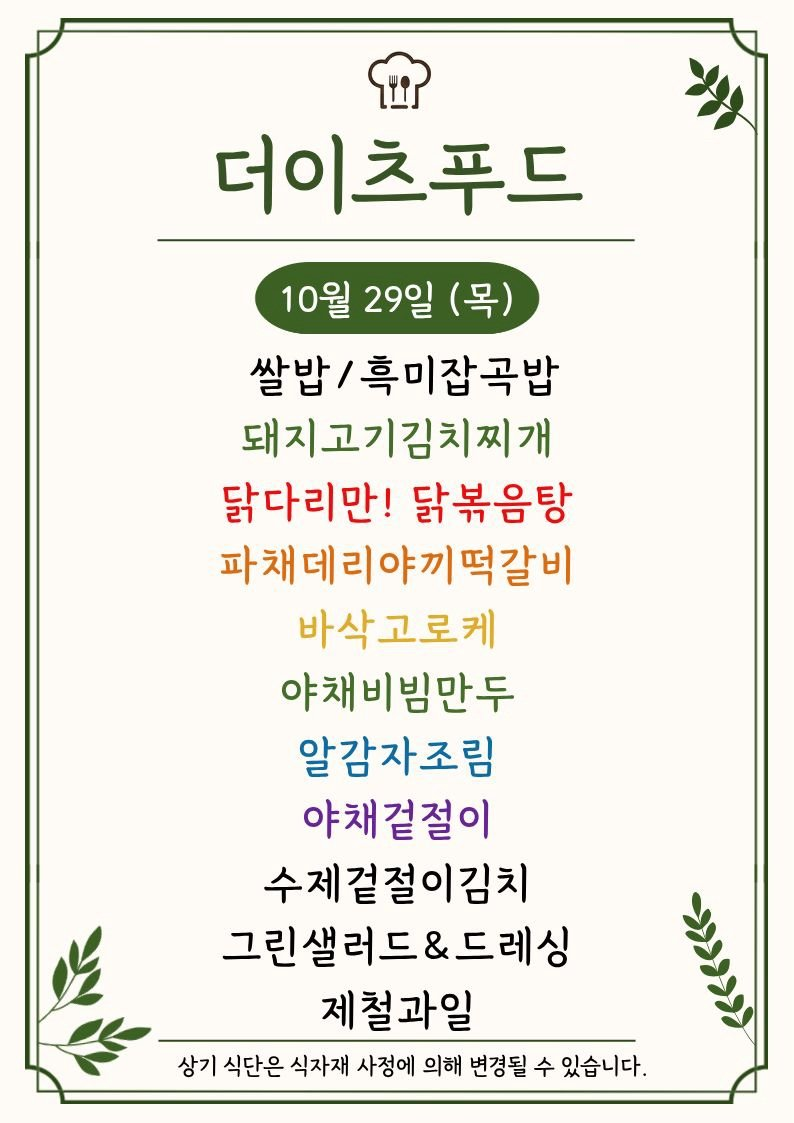
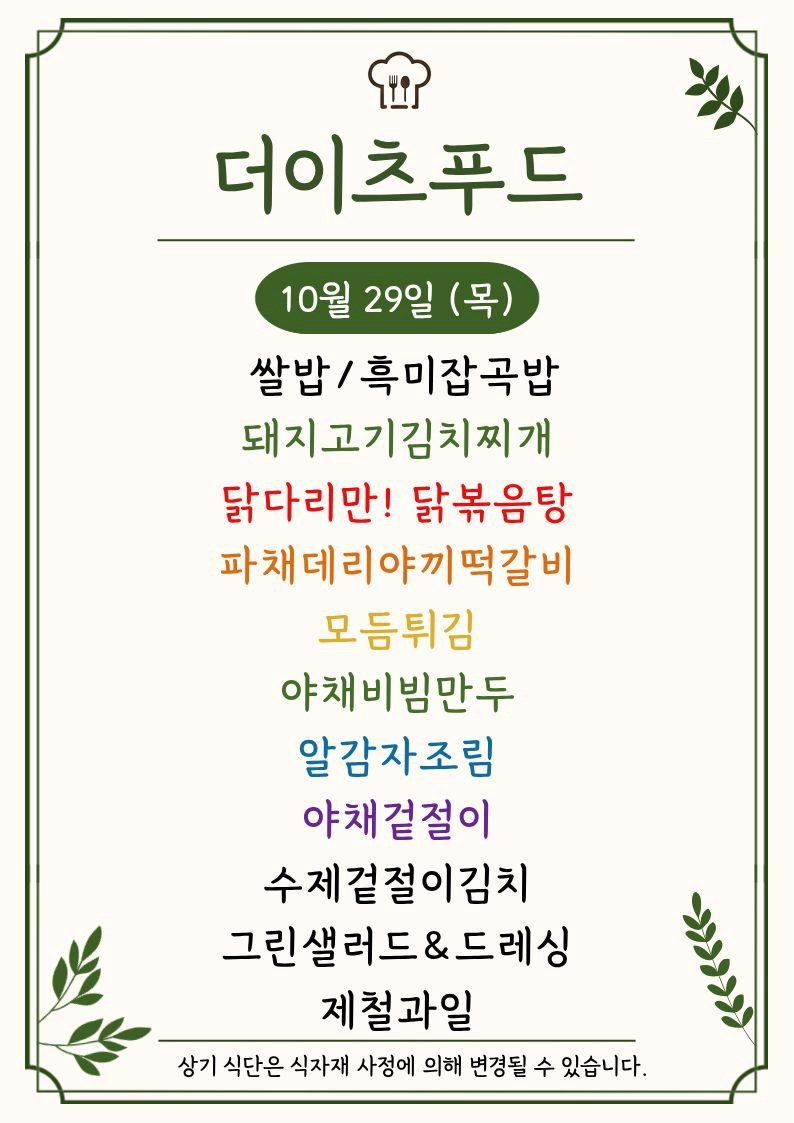
Update menu board assets

Changed region(s): [[0.3627, 0.5298, 0.6348, 0.5922]]

diff --git a/guro-menu/index.html b/guro-menu/index.html
@@ -32,7 +32,7 @@
   </header>
   <section class="meta">
     <div><small>기준 날짜</small><strong>2026년 10월 29일 목요일</strong></div>
-    <div><small>최종 갱신</small><strong>2026-10-29 10:48:10</strong></div>
+    <div><small>최종 갱신</small><strong>2026-10-29 11:03:47</strong></div>
     <div><small>등록 식당</small><strong>5개</strong></div>
   </section>
   <div class="notice">공개 카카오 채널의 메뉴 이미지를 자동 수집하고 OCR로 정리합니다. 텍스트에 오타가 있을 수 있으니 식단 이미지를 함께 확인해 주세요.</div>
@@ -76,7 +76,7 @@
         </div>
         <img class="menu-image" src="./images/the-eats-food.png" alt="더이츠푸드 식단 이미지" loading="lazy">
         
-        <ul><li>더이츠푸느</li><li>쌀밥/흑미잡곡밥</li><li>돼지고기김치찌개</li><li>닭다리만! 닭볶음탕</li><li>파채데리야끼떡갈비</li><li>야채비빔만두</li><li>알감자조림</li><li>야채겉절이</li><li>수제겉절이김치 y</li><li>그린샐러드&amp;드레싱 %</li><li>제철과일 %</li></ul>
+        <ul><li>쌀밥/흑미잡곡밥</li><li>돼지고기김치찌개</li><li>닭다리만! 닭볶음탕</li><li>파채데리야끼떡갈비</li><li>모듬튀김</li><li>야채비빔만두</li><li>알감자조림</li><li>야채겉절이</li><li>수제겉절이김치 0</li><li>그린샐러드&amp;드레싱 %</li><li>제철과일 0</li></ul>
       </article>
 
       <article class="restaurant-card">

diff --git a/menu-today/index.html b/menu-today/index.html
@@ -209,7 +209,7 @@
 
     <section class="meta-bar">
       <div class="meta-card"><div class="meta-label">기준 날짜</div><div class="meta-value">2026년 10월 29일 목요일</div></div>
-      <div class="meta-card"><div class="meta-label">최종 가져온 시간</div><div class="meta-value">2026-10-29 10:47:57</div></div>
+      <div class="meta-card"><div class="meta-label">최종 가져온 시간</div><div class="meta-value">2026-10-29 11:03:33</div></div>
       <div class="meta-card"><div class="meta-label">확인 완료</div><div class="meta-value">9개 식당</div></div>
       <div class="meta-card"><div class="meta-label">준비중</div><div class="meta-value">3개 채널</div></div>
     </section>
